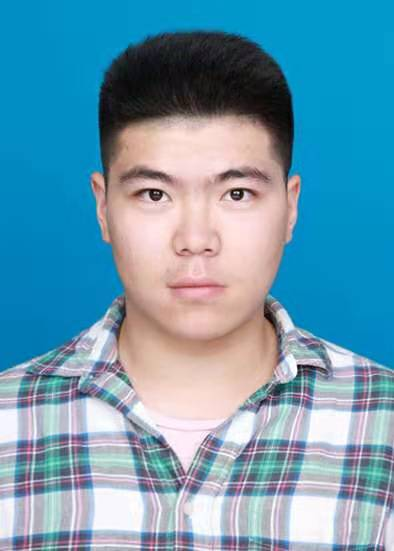
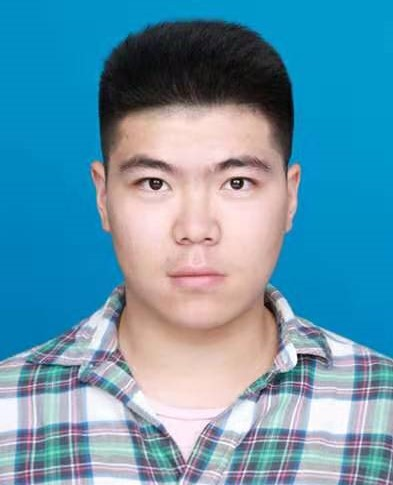
update

diff --git a/_pages/members/students.html b/_pages/members/students.html
@@ -266,6 +266,20 @@ description: A member list sorted by name.
     	</div>
 	</div>
 	
+	<!--xmh-->
+	<div class="col-md-2">
+		<div class="thumbnail">
+			<img
+				alt="ycb"
+				src="/assets/images/students/xmh.jpg" class="img-responsive">
+			<div class="caption">
+				<strong>徐明辉</strong>  <br>
+				<hr style="margin-top:-1px;margin-bottom:1px; height:1px;border:none;border-top:1px dotted #a1a8a4;" />				
+				Cognitive Science & NLP
+				<br><br><br>
+			</div>
+		</div>
+	</div> 
 
     <!--ycb-->
 	<div class="col-md-2">
